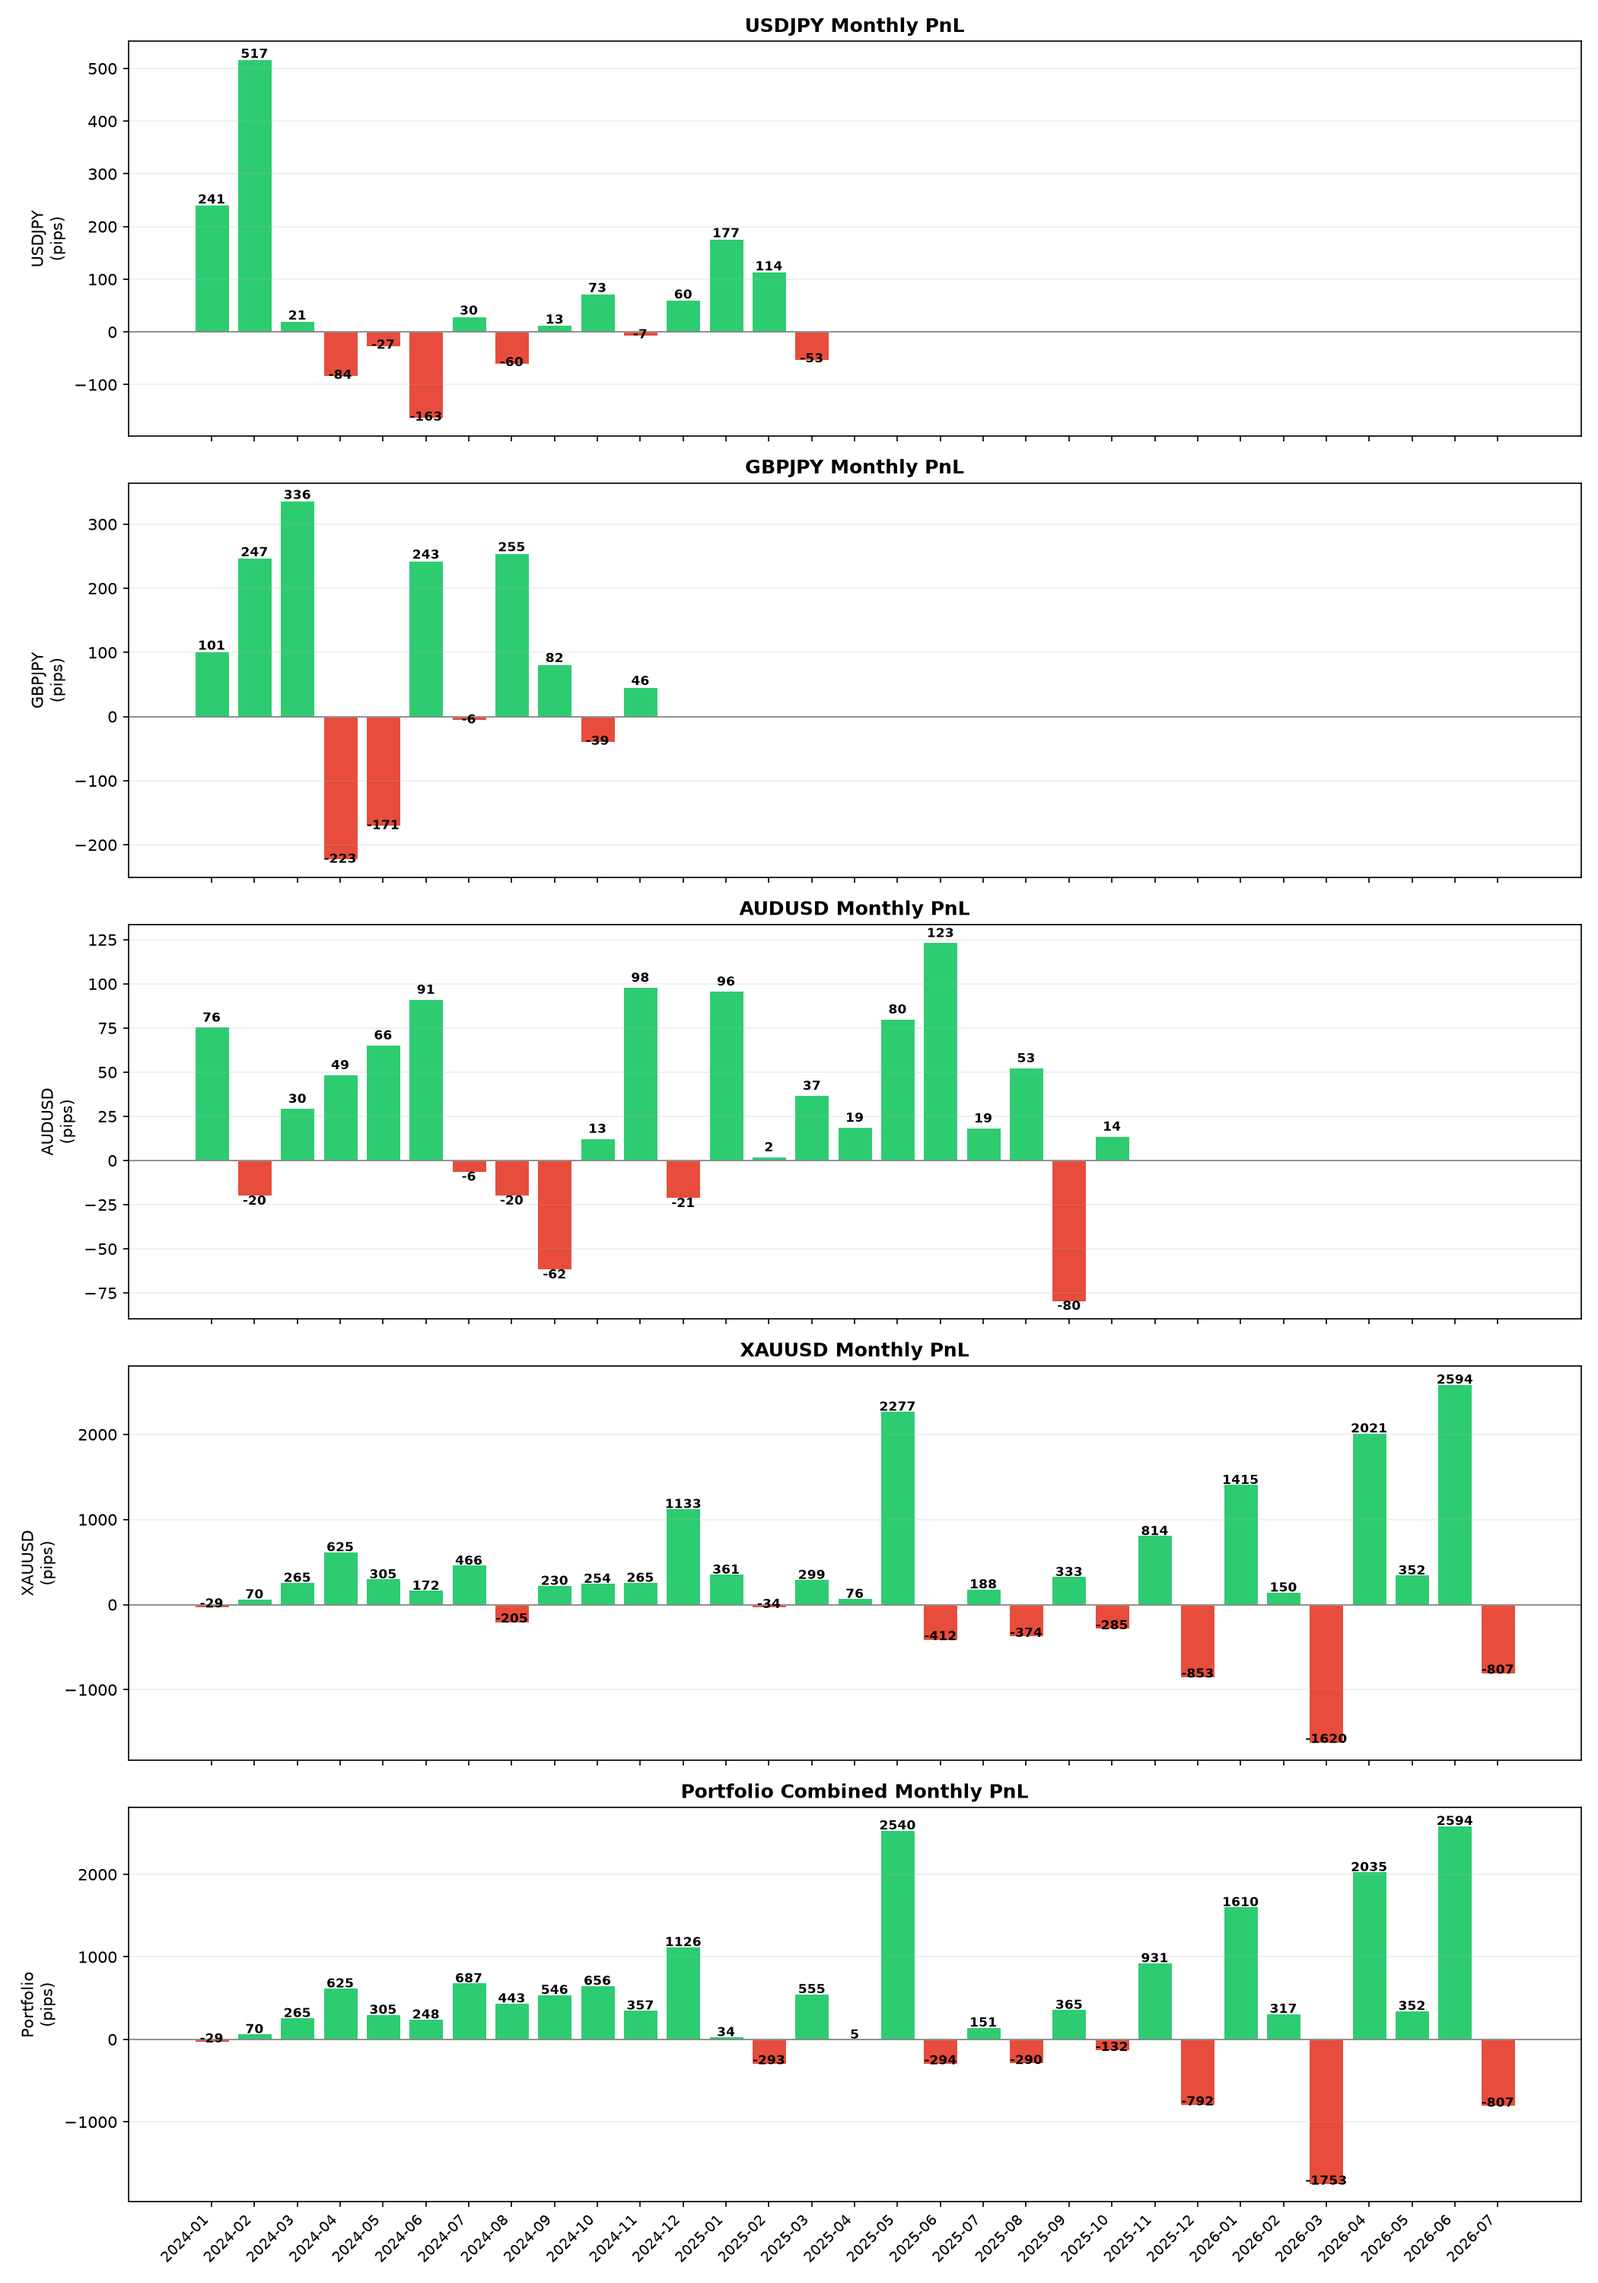
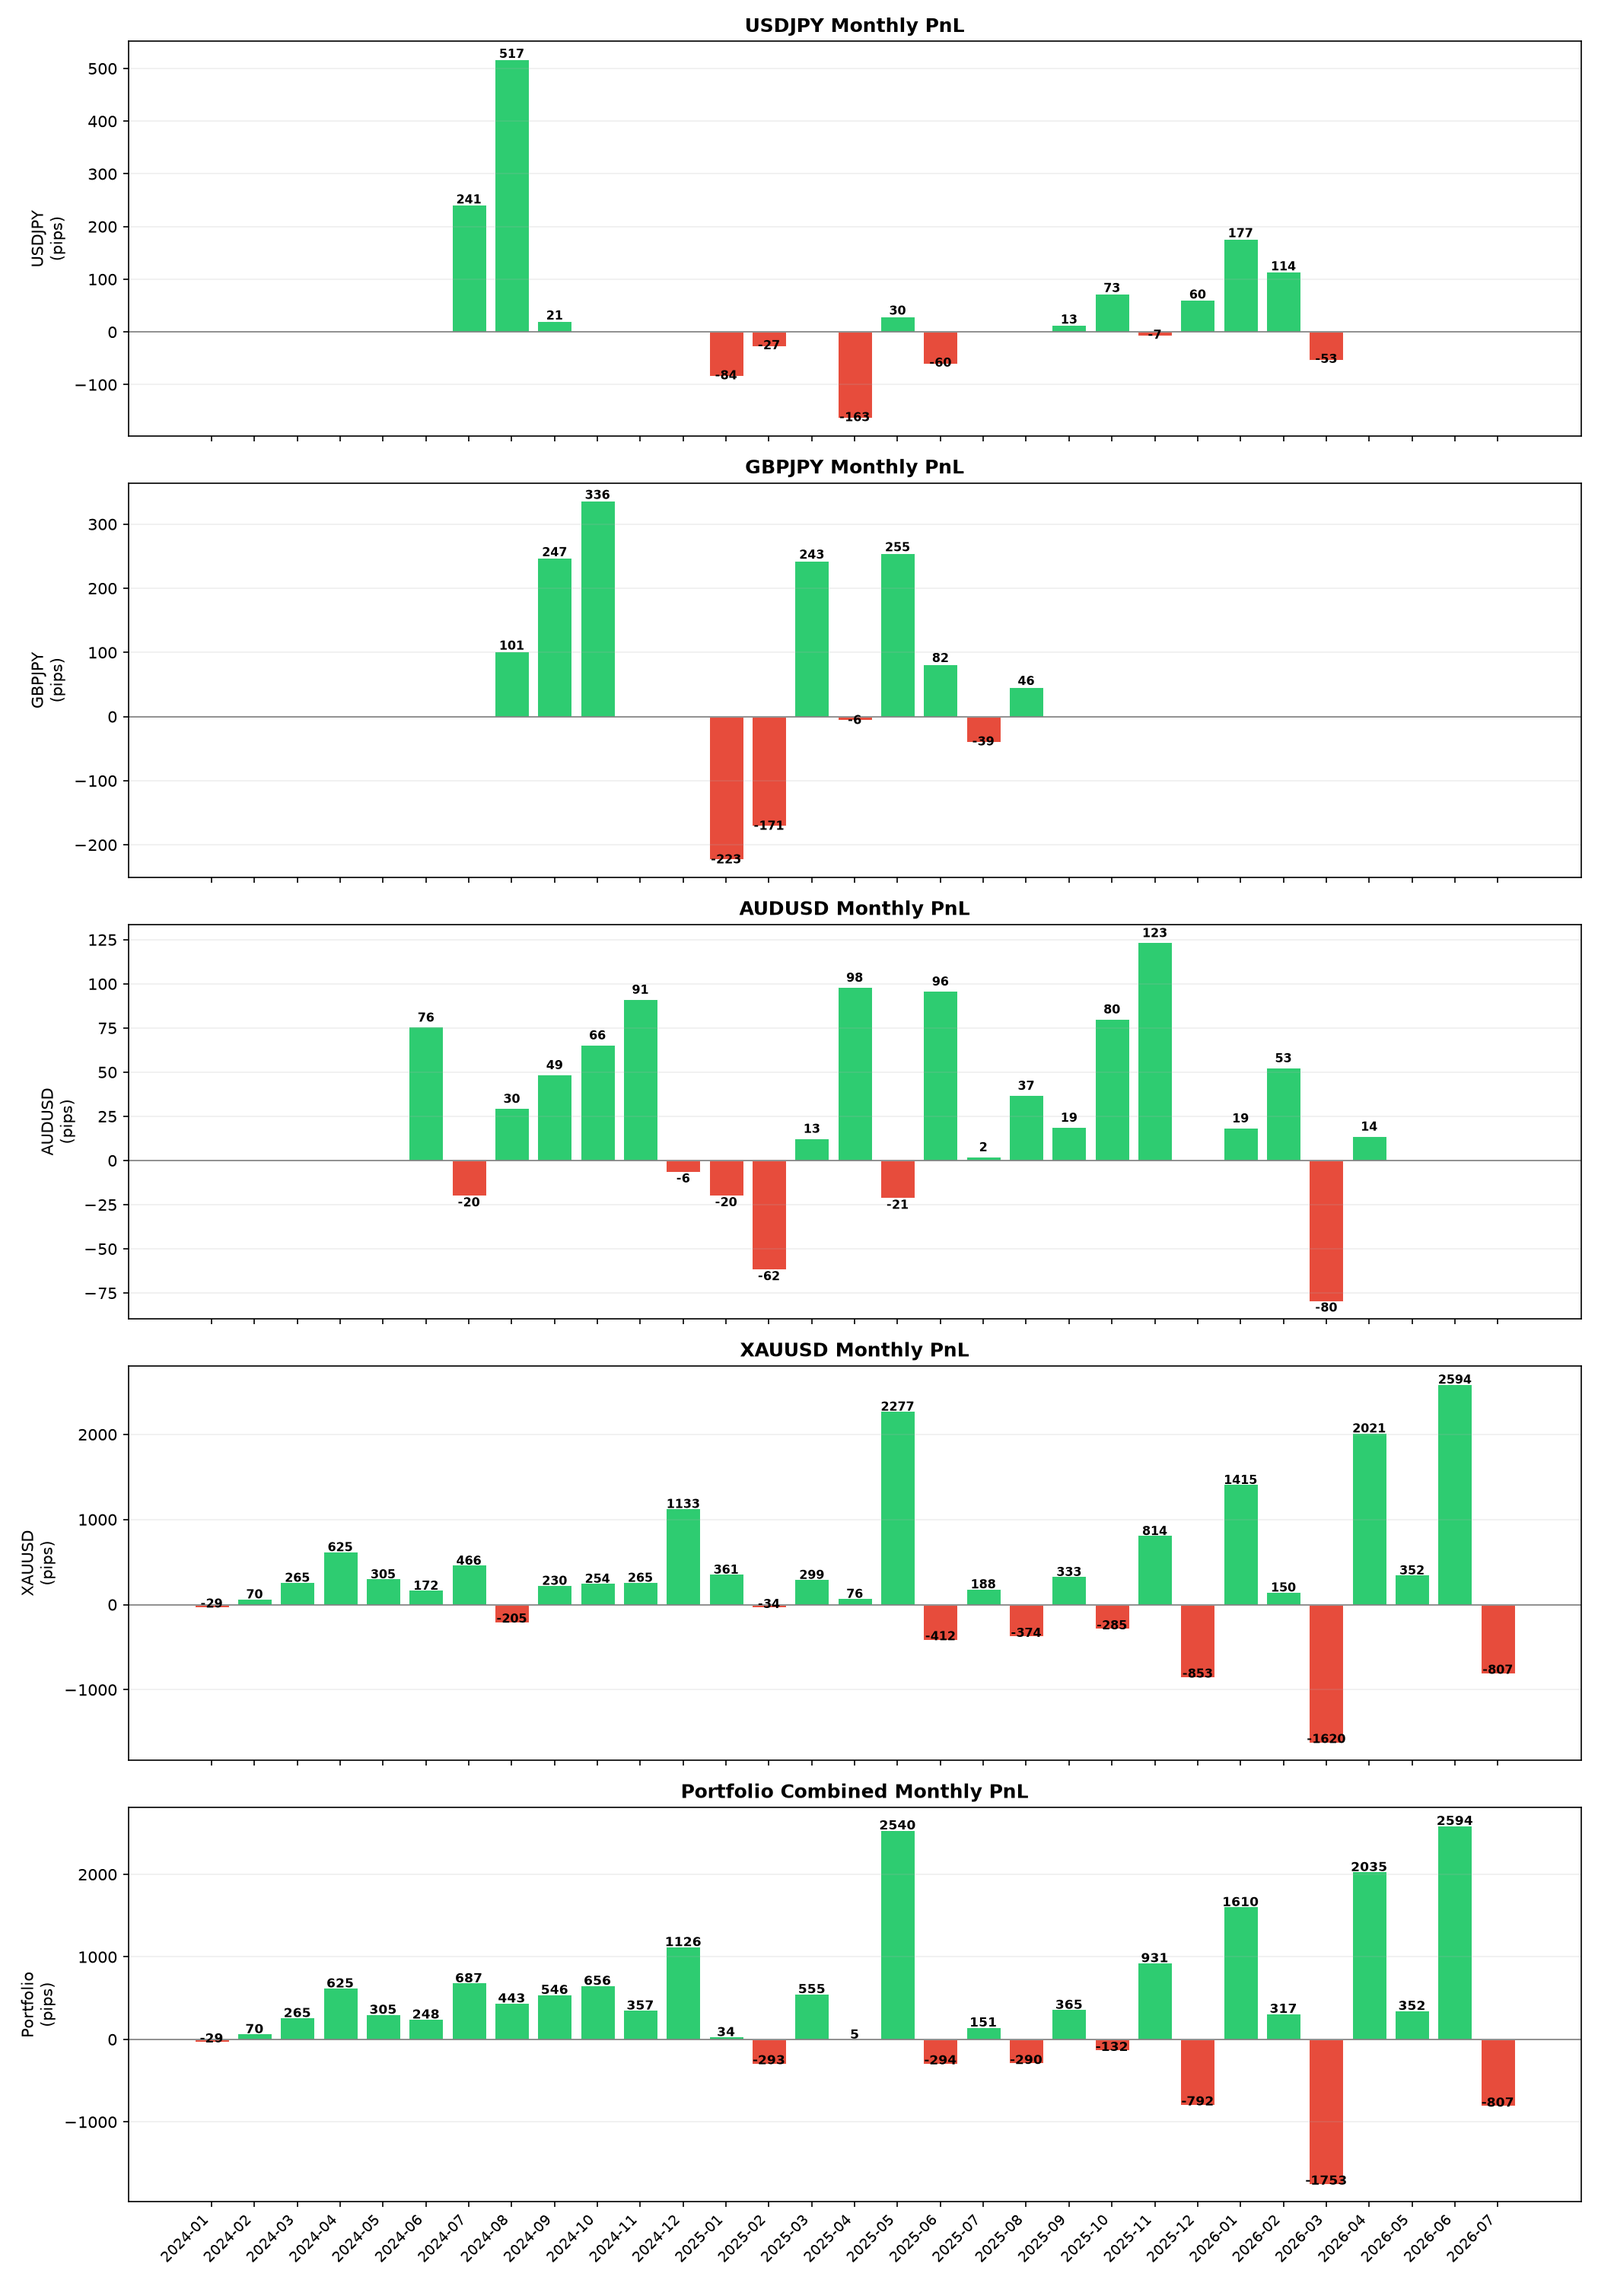
fix(plot): align monthly PnL bars to universal calendar timeline across all pairs

diff --git a/plot_results.py b/plot_results.py
@@ -131,6 +131,9 @@ def plot_monthly_pnl(all_trades, per_pair, savepath):
     fig, axes = plt.subplots(len(pairs) + 1, 1, figsize=(14, 4 * (len(pairs) + 1)),
                              sharex=True)
 
+    # Collect all calendar months across the portfolio for universal x-axis alignment
+    all_months = sorted(list(set([pd.Timestamp(t['entry_time']).strftime('%Y-%m') for t in all_trades])))
+
     # Per-pair monthly
     for i, pair in enumerate(pairs):
         ax = axes[i]
@@ -140,20 +143,20 @@ def plot_monthly_pnl(all_trades, per_pair, savepath):
             key = pd.Timestamp(t['entry_time']).strftime('%Y-%m')
             monthly[key] = monthly.get(key, 0) + t['pips']
 
-        months = sorted(monthly.keys())
-        vals = [monthly[m] for m in months]
-        colors = [COLORS['win'] if v > 0 else COLORS['loss'] for v in vals]
+        vals = [monthly.get(m, 0.0) for m in all_months]
+        colors = [COLORS['win'] if v > 0 else (COLORS['loss'] if v < 0 else '#bdc3c7') for v in vals]
 
-        ax.bar(range(len(vals)), vals, color=colors, edgecolor='white', linewidth=0.5)
+        ax.bar(range(len(all_months)), vals, color=colors, edgecolor='white', linewidth=0.5)
         ax.axhline(0, color='gray', linewidth=0.8)
         ax.set_ylabel(f'{pair}\n(pips)', fontsize=10)
         ax.set_title(f'{pair} Monthly PnL', fontsize=12, fontweight='bold')
         ax.grid(True, alpha=0.2, axis='y')
 
-        # Annotate values
+        # Annotate non-zero values
         for j, v in enumerate(vals):
-            ax.text(j, v + (3 if v > 0 else -5), f'{v:.0f}',
-                    ha='center', fontsize=8, fontweight='bold')
+            if abs(v) > 0.01:
+                ax.text(j, v + (3 if v > 0 else -6), f'{v:.0f}',
+                        ha='center', fontsize=7.5, fontweight='bold')
 
     # Portfolio monthly (bottom)
     ax = axes[-1]
@@ -162,21 +165,21 @@ def plot_monthly_pnl(all_trades, per_pair, savepath):
         key = pd.Timestamp(t['entry_time']).strftime('%Y-%m')
         monthly[key] = monthly.get(key, 0) + t['pips']
 
-    months = sorted(monthly.keys())
-    vals = [monthly[m] for m in months]
-    colors = [COLORS['win'] if v > 0 else COLORS['loss'] for v in vals]
+    vals = [monthly.get(m, 0.0) for m in all_months]
+    colors = [COLORS['win'] if v > 0 else (COLORS['loss'] if v < 0 else '#bdc3c7') for v in vals]
 
-    ax.bar(range(len(vals)), vals, color=colors, edgecolor='white', linewidth=0.5)
+    ax.bar(range(len(all_months)), vals, color=colors, edgecolor='white', linewidth=0.5)
     ax.axhline(0, color='gray', linewidth=0.8)
     ax.set_ylabel('Portfolio\n(pips)', fontsize=10)
     ax.set_title('Portfolio Combined Monthly PnL', fontsize=12, fontweight='bold')
-    ax.set_xticks(range(len(months)))
-    ax.set_xticklabels(months, rotation=45, ha='right', fontsize=9)
+    ax.set_xticks(range(len(all_months)))
+    ax.set_xticklabels(all_months, rotation=45, ha='right', fontsize=9)
     ax.grid(True, alpha=0.2, axis='y')
 
     for j, v in enumerate(vals):
-        ax.text(j, v + (5 if v > 0 else -8), f'{v:.0f}',
-                ha='center', fontsize=8, fontweight='bold')
+        if abs(v) > 0.01:
+            ax.text(j, v + (5 if v > 0 else -8), f'{v:.0f}',
+                    ha='center', fontsize=8, fontweight='bold')
 
     fig.tight_layout()
     fig.savefig(savepath, dpi=150)
